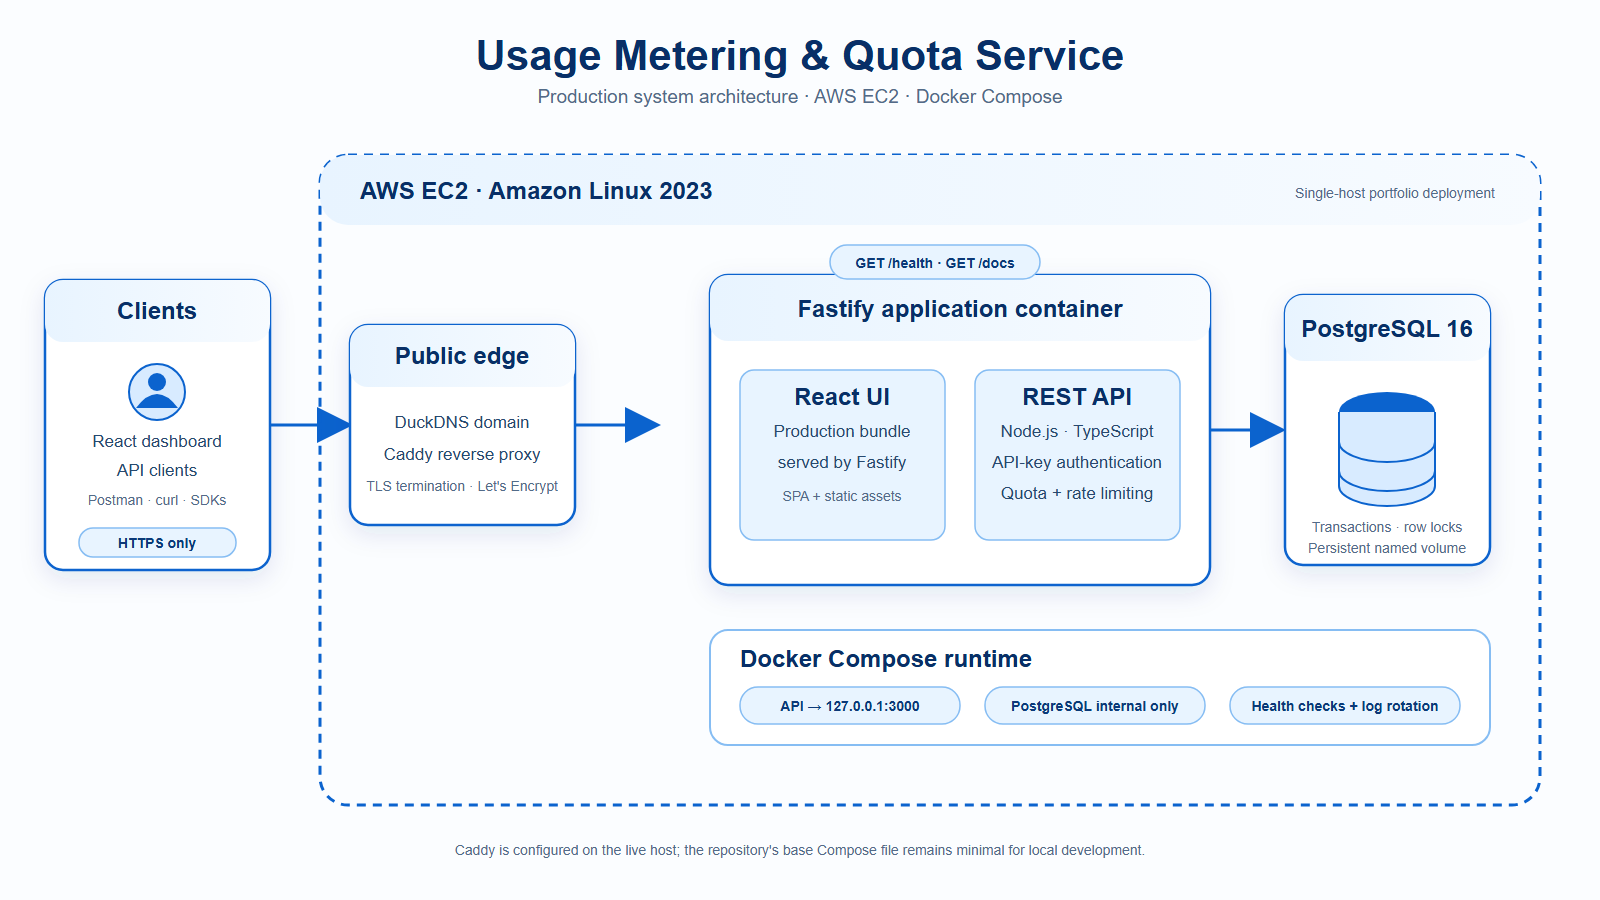
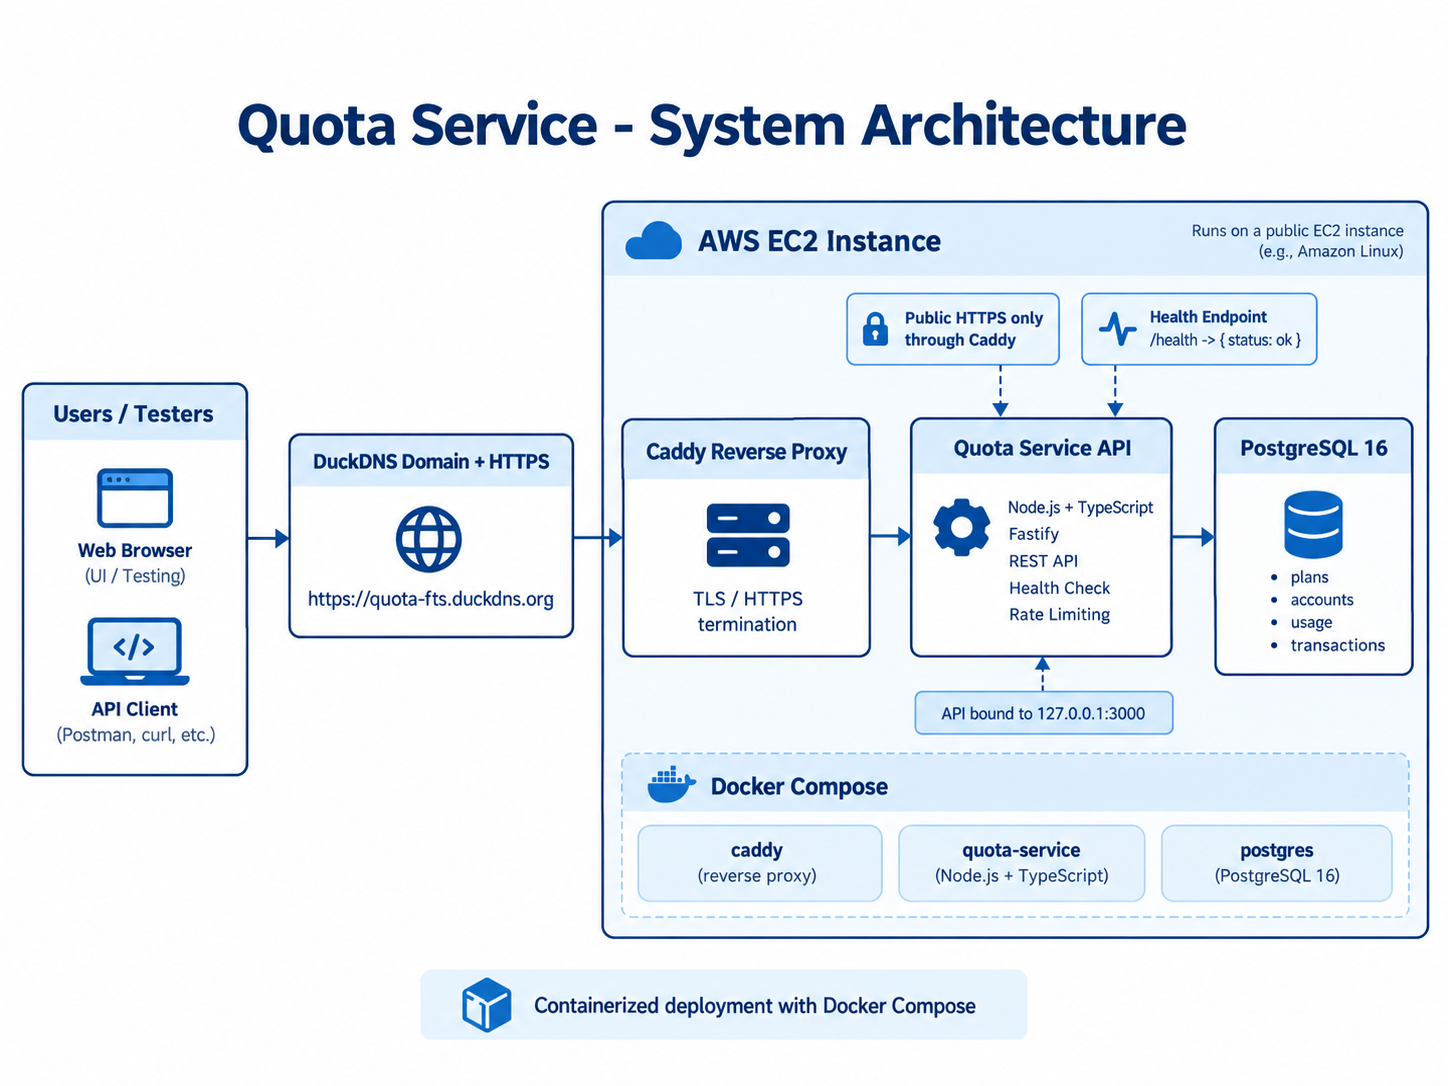
chore: update database ERD description and remove outdated SVG files

Changed region(s): [[0.0, 0.0311, 0.9945, 0.9022], [0.2797, 0.8711, 0.7148, 0.9644]]

diff --git a/README.md b/README.md
@@ -340,9 +340,7 @@ PostgreSQL contains seven core tables. Plans and assignments describe current po
 
 ### Database ERD (Entity Relationship Diagram)
 
-![Schema-accurate database entity relationship diagram](docs/assets/database-erd.png)
-
-This simplified ERD is derived from [`src/db/schema.ts`](src/db/schema.ts), which remains the authoritative schema. It intentionally replaces the supplied visual reference because that reference contained application-assignment and idempotency tables that do not exist in this service. The checked-in [editable SVG source](docs/assets/database-erd.svg) and Mermaid model below both describe the actual seven tables.
+The Mermaid ERD below is derived from [`src/db/schema.ts`](src/db/schema.ts), which remains the authoritative schema. It describes the service's actual seven tables and intentionally excludes application-assignment and idempotency tables that do not exist in this service.
 
 <details>
 <summary>View the editable Mermaid relationship model</summary>
